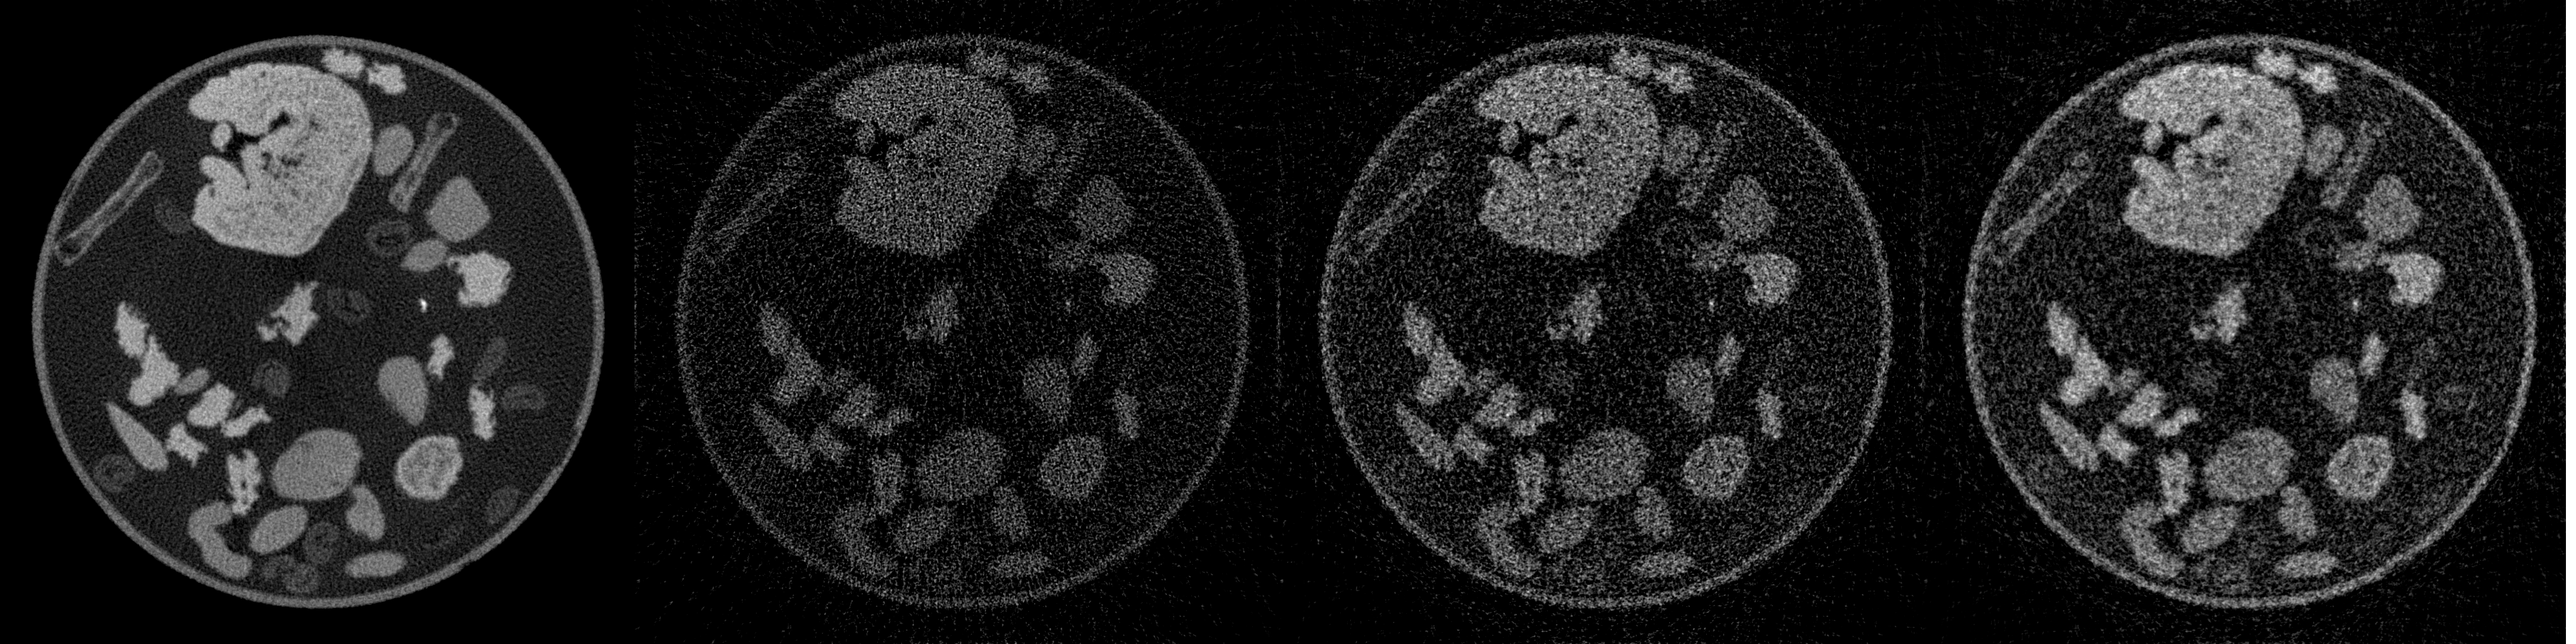
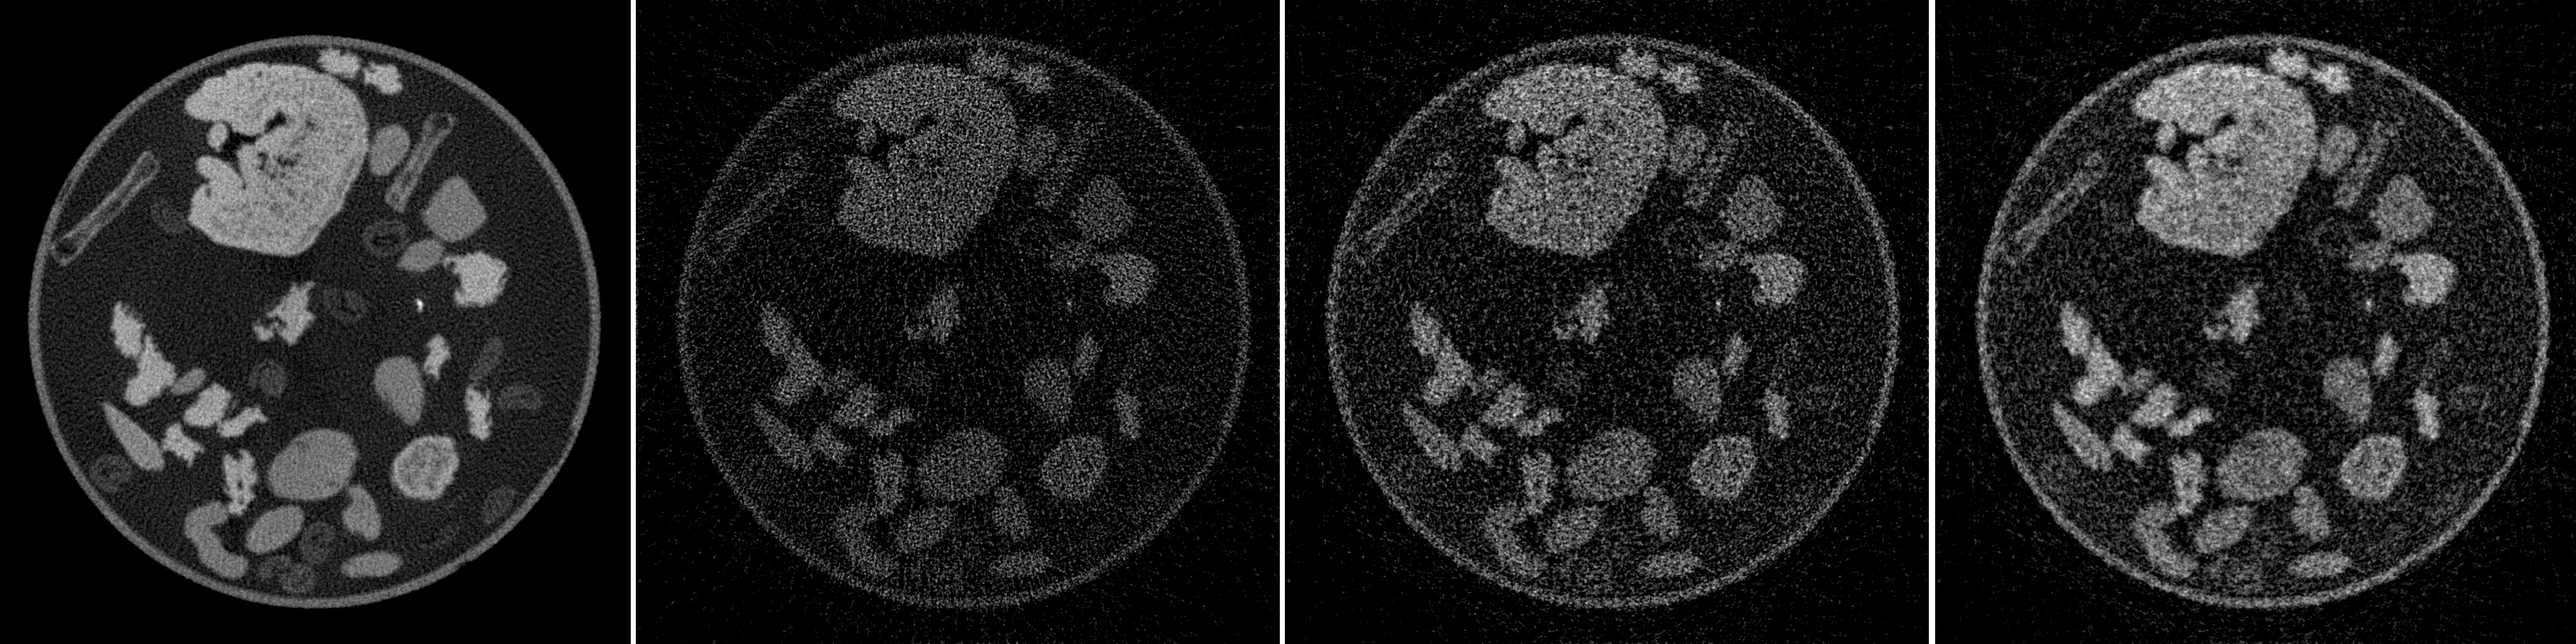
Update with AXDT figure

diff --git a/paper.md b/paper.md
@@ -32,55 +32,50 @@ bibliography: paper.bib
 
 # Summary
 
-elsa is a versatile framework in the landscape of X-ray tomography, offering a powerful toolkit for developing iterative reconstruction algorithms. Primarily designed for challenging applications in classical attenuation X-ray computed tomography (CT) and advanced modalities like Phase-Contrast X-ray CT or Anisotropic Dark-field tomography (AXDT). elsa stands out with an expansive set of building blocks and a unified abstraction, providing the means for high-quality reconstructions across a spectrum of imaging modalities and applications.
+elsa is a versatile framework in the landscape of X-ray tomography, offering a powerful toolkit for developing iterative reconstruction algorithms. Primarily designed for challenging applications in classical attenuation X-ray computed tomography (CT) and advanced modalities like Phase-Contrast X-ray CT (PCCT) [@pfeiffer2006] or Anisotropic Dark-field tomography (AXDT) [@wieczorek2016]. elsa stands out with an expansive set of building blocks and a unified abstraction, providing the means for high-quality reconstructions across a spectrum of imaging modalities and applications.
 
-Designed as an operator- and optimisation-based framework, elsa takes a mathematical approach to model the reconstruction pipeline of imaging modalities. Through formulating optimization problems and a suite of iterative reconstruction algorithms, elsa addresses challenges in attenuation X-ray CT, Phase-Contrast CT, and AXDT.
+Designed as an operator- and optimisation-based framework, elsa takes a mathematical approach to model the reconstruction pipeline of imaging modalities. Through formulating optimization problems and a suite of iterative reconstruction algorithms, elsa addresses challenges in attenuation X-ray CT, PCCT, and AXDT.
 
 The core of elsa, developed in modern C++ with GPU acceleration, ensures efficiency, while its Python interface enhances accessibility for students and researchers.
 
-Distinctively, elsa positions itself as a unique solution by supporting iterative reconstruction techniques for novel X-ray CT imaging modalities. The framework addresses challenges associated with X-ray CT with arbitrary trajectories, Phase-Contrast X-ray CT, and Anisotropic X-ray Dark-field Tomography, offering a simple abstraction for implementing tailored reconstruction methods.
+Distinctively, elsa positions itself as a unique solution by supporting modern iterative reconstruction techniques for novel X-ray CT imaging modalities. The framework addresses challenges associated with X-ray CT with arbitrary trajectories, automatic differentiation, differential signals for PCCT, and spherical function valued reconstructions for AXDT, offering a simple abstraction for implementing tailored reconstruction methods.
 
 # Statement of need
 
-The introduction of X-ray Computed Tomography (CT) in the 1970s revolutionized medical diagnostics, offering unprecedented insights into the human body's internal structures. Unlike traditional radiography, CT requires reconstructions through computation, which introduced the need for software frameworks. Popular frameworks include ASTRA [@vanAarle2016], scico [@balke2022], and the Core Imaging Library [@Jrgensen2021;@Papoutsellis2021], or ODL [@Adler2017]. \autoref{fig:seashell_walnut} shows slices from two example reconstructions of attenuation X-ray CT using elsa.
+The introduction of X-ray Computed Tomography (CT) in the 1970s revolutionized medical diagnostics, offering unprecedented insights into the human body's internal structures. Unlike traditional radiography, CT requires reconstructions through computation, which introduced the need for software frameworks. Popular frameworks include ASTRA [@vanAarle2016], SCICO [@balke2022], and the Core Imaging Library [@Jrgensen2021;@Papoutsellis2021], or ODL [@Adler2017]. These standard reconstructions of attenuation X-ray CT can also be performed using elsa, see \autoref{fig:seashell_walnut}.
 
+<!-- todo: white separator between images, todo: see example-tool x in the repo.-->
 ![Example reconstructions of two different attenuation X-ray CT datasets. Left: Axial center slice of the walnut dataset from @meaney2022. Right: Lateral center slice of the seashell dataset from @kamutta2022.\label{fig:seashell_walnut}](imgs/seashell_walnut.png)
 
-In recent years, one of the major challenges tackled by research is the reduction of X-ray dose. As X-ray dose can harm humans, reducing it as much as possible is vital. However, reducing the X-ray dose results in worse reconstruction quality. Many reconstruction techniques have been developed to maintain a high reconstruction quality with a reduced X-ray dosage. However, till today, this remains an open problem. \autoref{fig:2detect} highlights this challenge. It illustrates the intricacies of low-dose reconstruction and demonstrates the versatility of elsa in handling diverse optimization problems for different noise assumptions.
+In recent years, one of the major challenges tackled by research is the reduction of X-ray dose. As X-ray dose can harm humans, reducing it as much as possible is vital. However, reducing the X-ray dose results in worse reconstruction quality. Many reconstruction techniques have been developed to maintain a high reconstruction quality with a reduced X-ray dosage. However, till today, this remains an open problem. \autoref{fig:2detect} highlights this challenge on the 2DeteCT dataset [@kiss2023]. It illustrates the intricacies of low-dose reconstruction and demonstrates the versatility of elsa in handling diverse optimization problems for different noise assumptions.
 
+<!-- TODO mention example code that generates this. -->
+![Reconstruction of slice 29 of the 2DeteCT dataset [@kiss2023] visualizing the difference between high-dose and different low-dose reconstructions. The leftmost image displays a reconstruction using high-dose data (with least squares data term), while the subsequent three images represent reconstructions using low-dose measurements, from left to right: with Gaussian, non-stationary Gaussian, and Poisson noise based data terms. \label{fig:2detect}](imgs/2detect.png)
 
-![Reconstruction of slice 29 of the 2DeteCT dataset [@kiss2023] visualizing the difference between high-dose and different low-dose reconstructions. The leftmost image displays a reconstruction using high-dose data, while the subsequent three images represent reconstructions using low-dose measurements. The variations in low-dose reconstructions account for different noise assumptions: Gaussian, nonstationary Gaussian, and Poisson. \label{fig:2detect}](imgs/2detect.png)
+Classical X-ray CT, reliant on X-ray attenuation, faces limitations in soft tissue contrast and spatial resolution. With the advent of modern imaging modalities, consideration of additional physical effects, such as refraction and scatter, introduce both opportunities and challenges. A particularly challenging example (AXDT) is shown in \autoref{fig:axdt}, demonstrating the ability to reconstruct high-dimensional spherical scattering functions.
 
-Classical X-ray CT, reliant on X-ray attenuation, faces soft tissue contrast and spatial resolution limitations. The advent of modern imaging modalities, considering additional physical effects such as phase, refraction, and scatter, introduces both opportunities and challenges.
+![Slices of two AXDT reconstruction depicting two crossed sticks. The reconstruction illustrates the spherical harmonics of degree 0, order 0. On the left, the reconstruction assumes a Rician distribution of the mean intensity value. On the right, the reconstruction employs the assumption of a Gaussian dark-field signal.\label{fig:axdt}](imgs/axdt.png)
 
-![TODO: Some image of AXDT\label{fig:axdt}](imgs/axdt.png)
+In this landscape, elsa is a distinctive framework focusing on iterative reconstruction techniques for modern X-ray CT imaging modalities. Offering a rich set of tools, elsa addresses challenges in fields like X-ray CT with arbitrary trajectories, automatic differentiation, differential signals for PCCT, and spherical function valued reconstructions for AXDT. Its unique contribution lies in supporting novel X-ray-based imaging modalities, while providing a versatile platform for tailored reconstruction methods.
 
-In this landscape, elsa is a distinctive framework focusing on iterative reconstruction techniques for modern X-ray CT imaging modalities. Offering a rich set of tools, elsa addresses challenges in fields like X-ray CT with arbitrary trajectories, Phase-Contrast X-ray CT, and Anisotropic X-ray Dark-Field Tomography. Its unique contribution lies in supporting novel X-ray-based modalities while providing a versatile platform for tailored reconstruction methods.
+elsa has been integral to our group's research and vital to scientific publications. Noteworthy applications include robotic X-ray CT and trajectory optimization [@pekel2022xray;@pekel2022geometric;@pekel2023], as well as successful integration with deep learning approaches [@cheslerean2023wnet]. Recognized in scientific conferences [@Lasser19;@frank2023], elsa is an indispensable tool, contributing significantly to advancing the field of X-ray tomography.
 
-elsa has been integral to our group's research and vital to scientific publications. Noteworthy applications include robotic X-ray CT and trajectory optimization [@pekel2022xray;@pekel2022geometric;@pekel2023], as well as successful integration with deep learning approaches [@cheslerean2023wnet;@cheslerean2023transformer]. Recognized in scientific conferences [@Lasser19;@frank2023], elsa is an indispensable tool, contributing significantly to advancing the field of X-ray tomography.
+# Supported Features
 
+Reconstruction problems are formulated as mathematical optimization problems within elsa, i.e. one minimizes a data fidelity term, augmented with regularization for incorporating prior knowledge. The framework automatically computes gradients for these problems.
 
-# Model-based reconstruction
+elsa accommodates diverse data fidelity terms, such as (weighted) least squares and Poisson log-likelihood, and supports a variety of regularization techniques, including L2, sparsity-inducing L1, total variation, and Plug-and-Play (PnP) priors.
 
-The basic premise of model-based reconstruction is formulating the image reconstruction process as a mathematical optimization problem. The goal is to minimize a data fidelity term, representing the proximity of the reconstructed image to the actual measurements, augmented by regularisation terms to incorporate prior knowledge. The basic mathematical formulation used is the following:
+Tailoring to specific problem formulations, elsa supports a diverse set of iterative reconstruction algorithms, including gradient-based methods (FGM, OGM), splitting-based methods (ISTA, FISTA, ADMM), and primal-dual algorithms (PDHG).
 
-$$ \underset{x}{\operatorname{argmin}} \quad D(A, x) + \sum_{i=1}^n R_i(x) $$
+The framework implements multiple forward model approximations for attenuation X-ray CT, available for both CPU and CUDA. These approximations support arbitrary cone-beam geometry via projection matrices. For PCCT, the forward model employs differentiable Kaiser-Bessel basis functions and B-Splines, with additional support for spherical functions and harmonics.
 
+elsa implements different approximations of the forward model for attenuation X-ray CT. These approximations include the so-called Siddons and Josephs method and are implemented both for CPU and CUDA. All our models support arbitrary cone-beam geometry, which can be represented using a projection matrix. For PCCT, the forward model is implement using both differentiable Kaiser-Bessel basis functions and B-Splines. Further spherical functions and spherical harmonics are implemented in the framework.
 
-For X-ray CT, elsa supports various data fidelity terms, including (Weighted) Least Squares and Poisson log-likelihood, addressing different noise characteristics. Moreover, it provides a range of regularization techniques such as L2, sparsity-inducing L1, total variation, and Plug-and-Play (PnP) priors, allowing users to tailor reconstructions to specific needs. elsa's adaptability to different imaging scenarios makes it an invaluable asset in advancing the field of model-based reconstruction.
+Developed in modern C++, elsa features an accessible Python interface. Comprehensive Python examples, such as those in \autoref{fig:seashell_walnut} and \autoref{fig:2detect}, accompany the software. The documentation, hosted at \url{https://ciip.in.tum.de/elsadocs/}, includes API documentation, guides, and tutorials. elsa maintains code correctness and quality through a stable, continuously running CI pipeline and high test coverage.
 
-# Advanced Imaging Modalities
+# Acknowledgment
 
-Grating-based phase-contrast CT introduces a paradigm shift in X-ray imaging by exploiting the phase information of X-rays. While traditional X-ray CT relies on attenuation, phase-contrast imaging allows for enhanced visualization of soft tissues due to variations in refractive indices. One of the biggest challenges is the forward model for this modality. As only a difference in phase can be measured, one needs differentiable basis functions (e.g., so-called blobs or B-Splines) instead of pixel or voxel as the basis of the projection operations. elsa has support for such a forward model. The support for differentiable basis functions in the forward model is a unique feature of an open-source framework.
-
-Anisotropic X-ray Dark-field Tomography (AXDT) is at the forefront of advancing X-ray imaging modalities, providing unique insights into structural and compositional information by detecting small-angle X-ray scattering. The upsides of AXDT include its ability to visualize structural details in materials. However, challenges arise in handling the anisotropic nature of the scattering process and optimizing reconstructions accordingly. elsa plays a crucial role in addressing these challenges by offering a suite of tools tailored for AXDT. These tools, first and foremost, include support for the forward model. Further, different noise models for the reconstruction process, which tremendously influence the reconstruction quality, are included.
-
-# Acknowledgements
-
-We want to acknowledge Shen Hu and Matthias Wieczorek's work on the AXDT support. Matthias Wieczorek originally developed much during his Ph.D., and Shen Hu ported a lot of Matthias' effort to the currently open-source version of elsa.
-
-Further, we thank Noah Dormann for the initial support of Phase-Contrast CT.
-
-Finally, we thank our past contributors and students who made elsa into what it is today!
+We thank our current and past contributors and students who made elsa into what it is today!
 
 # References
